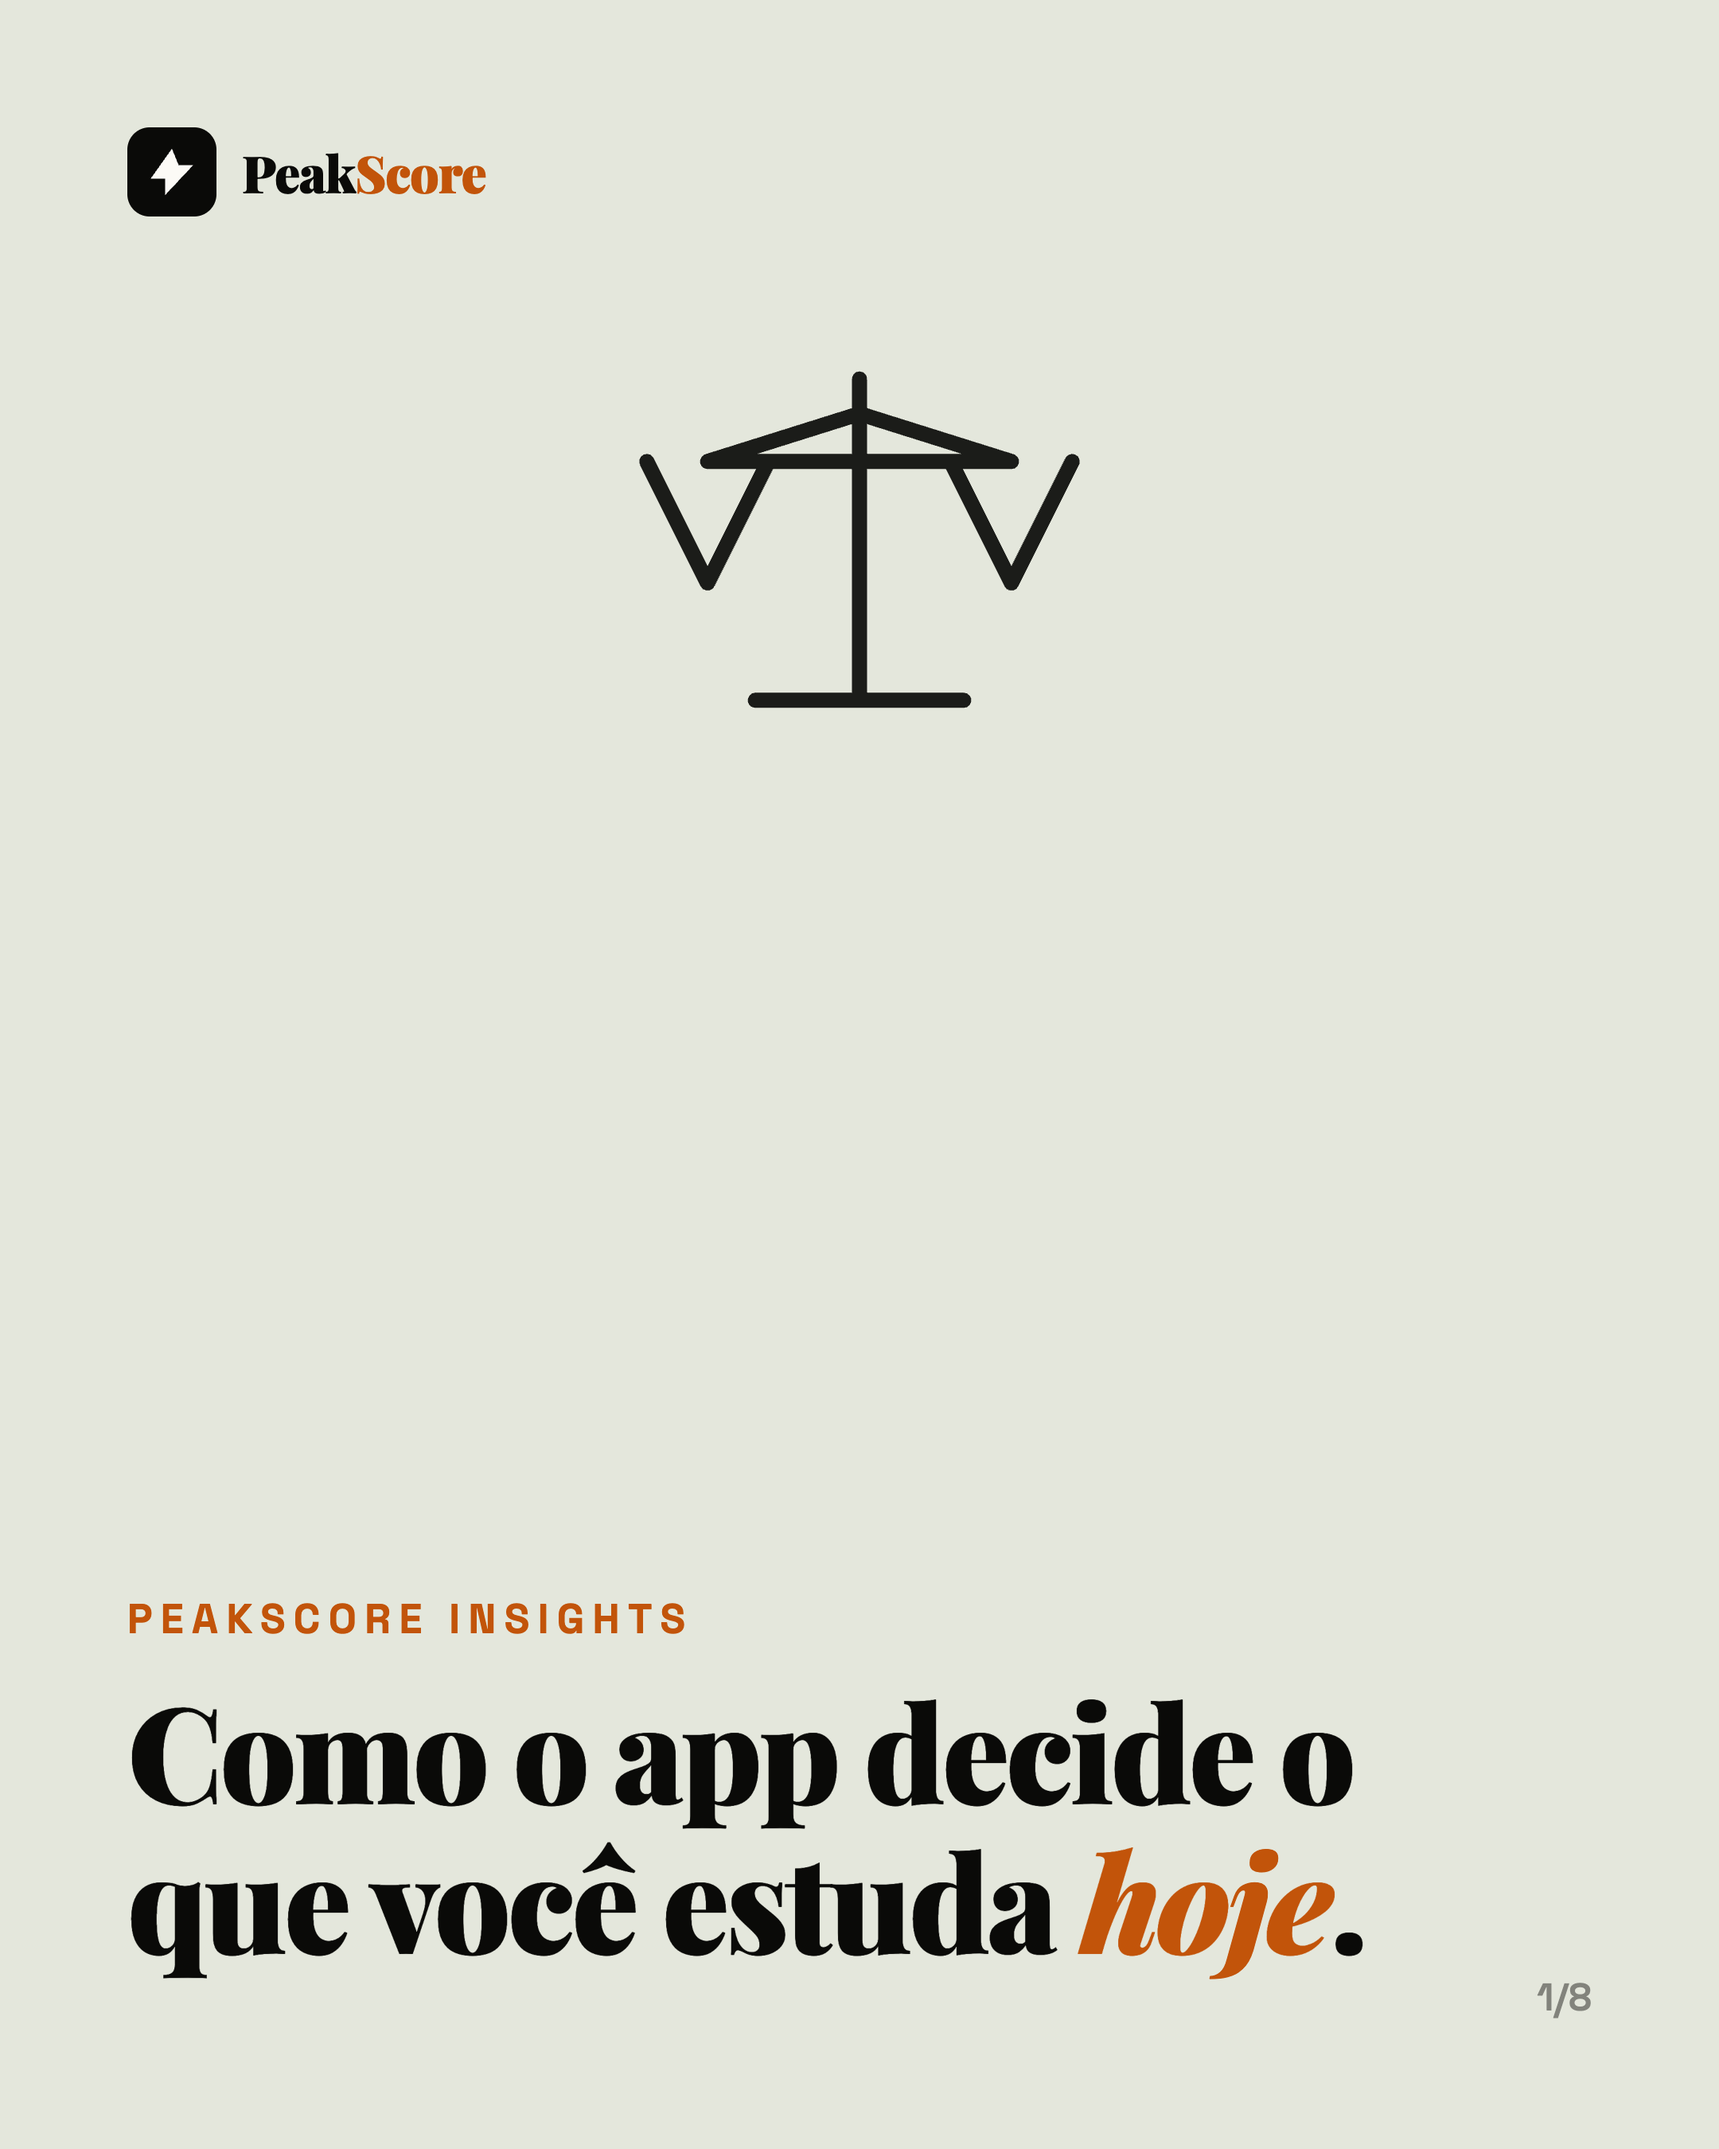
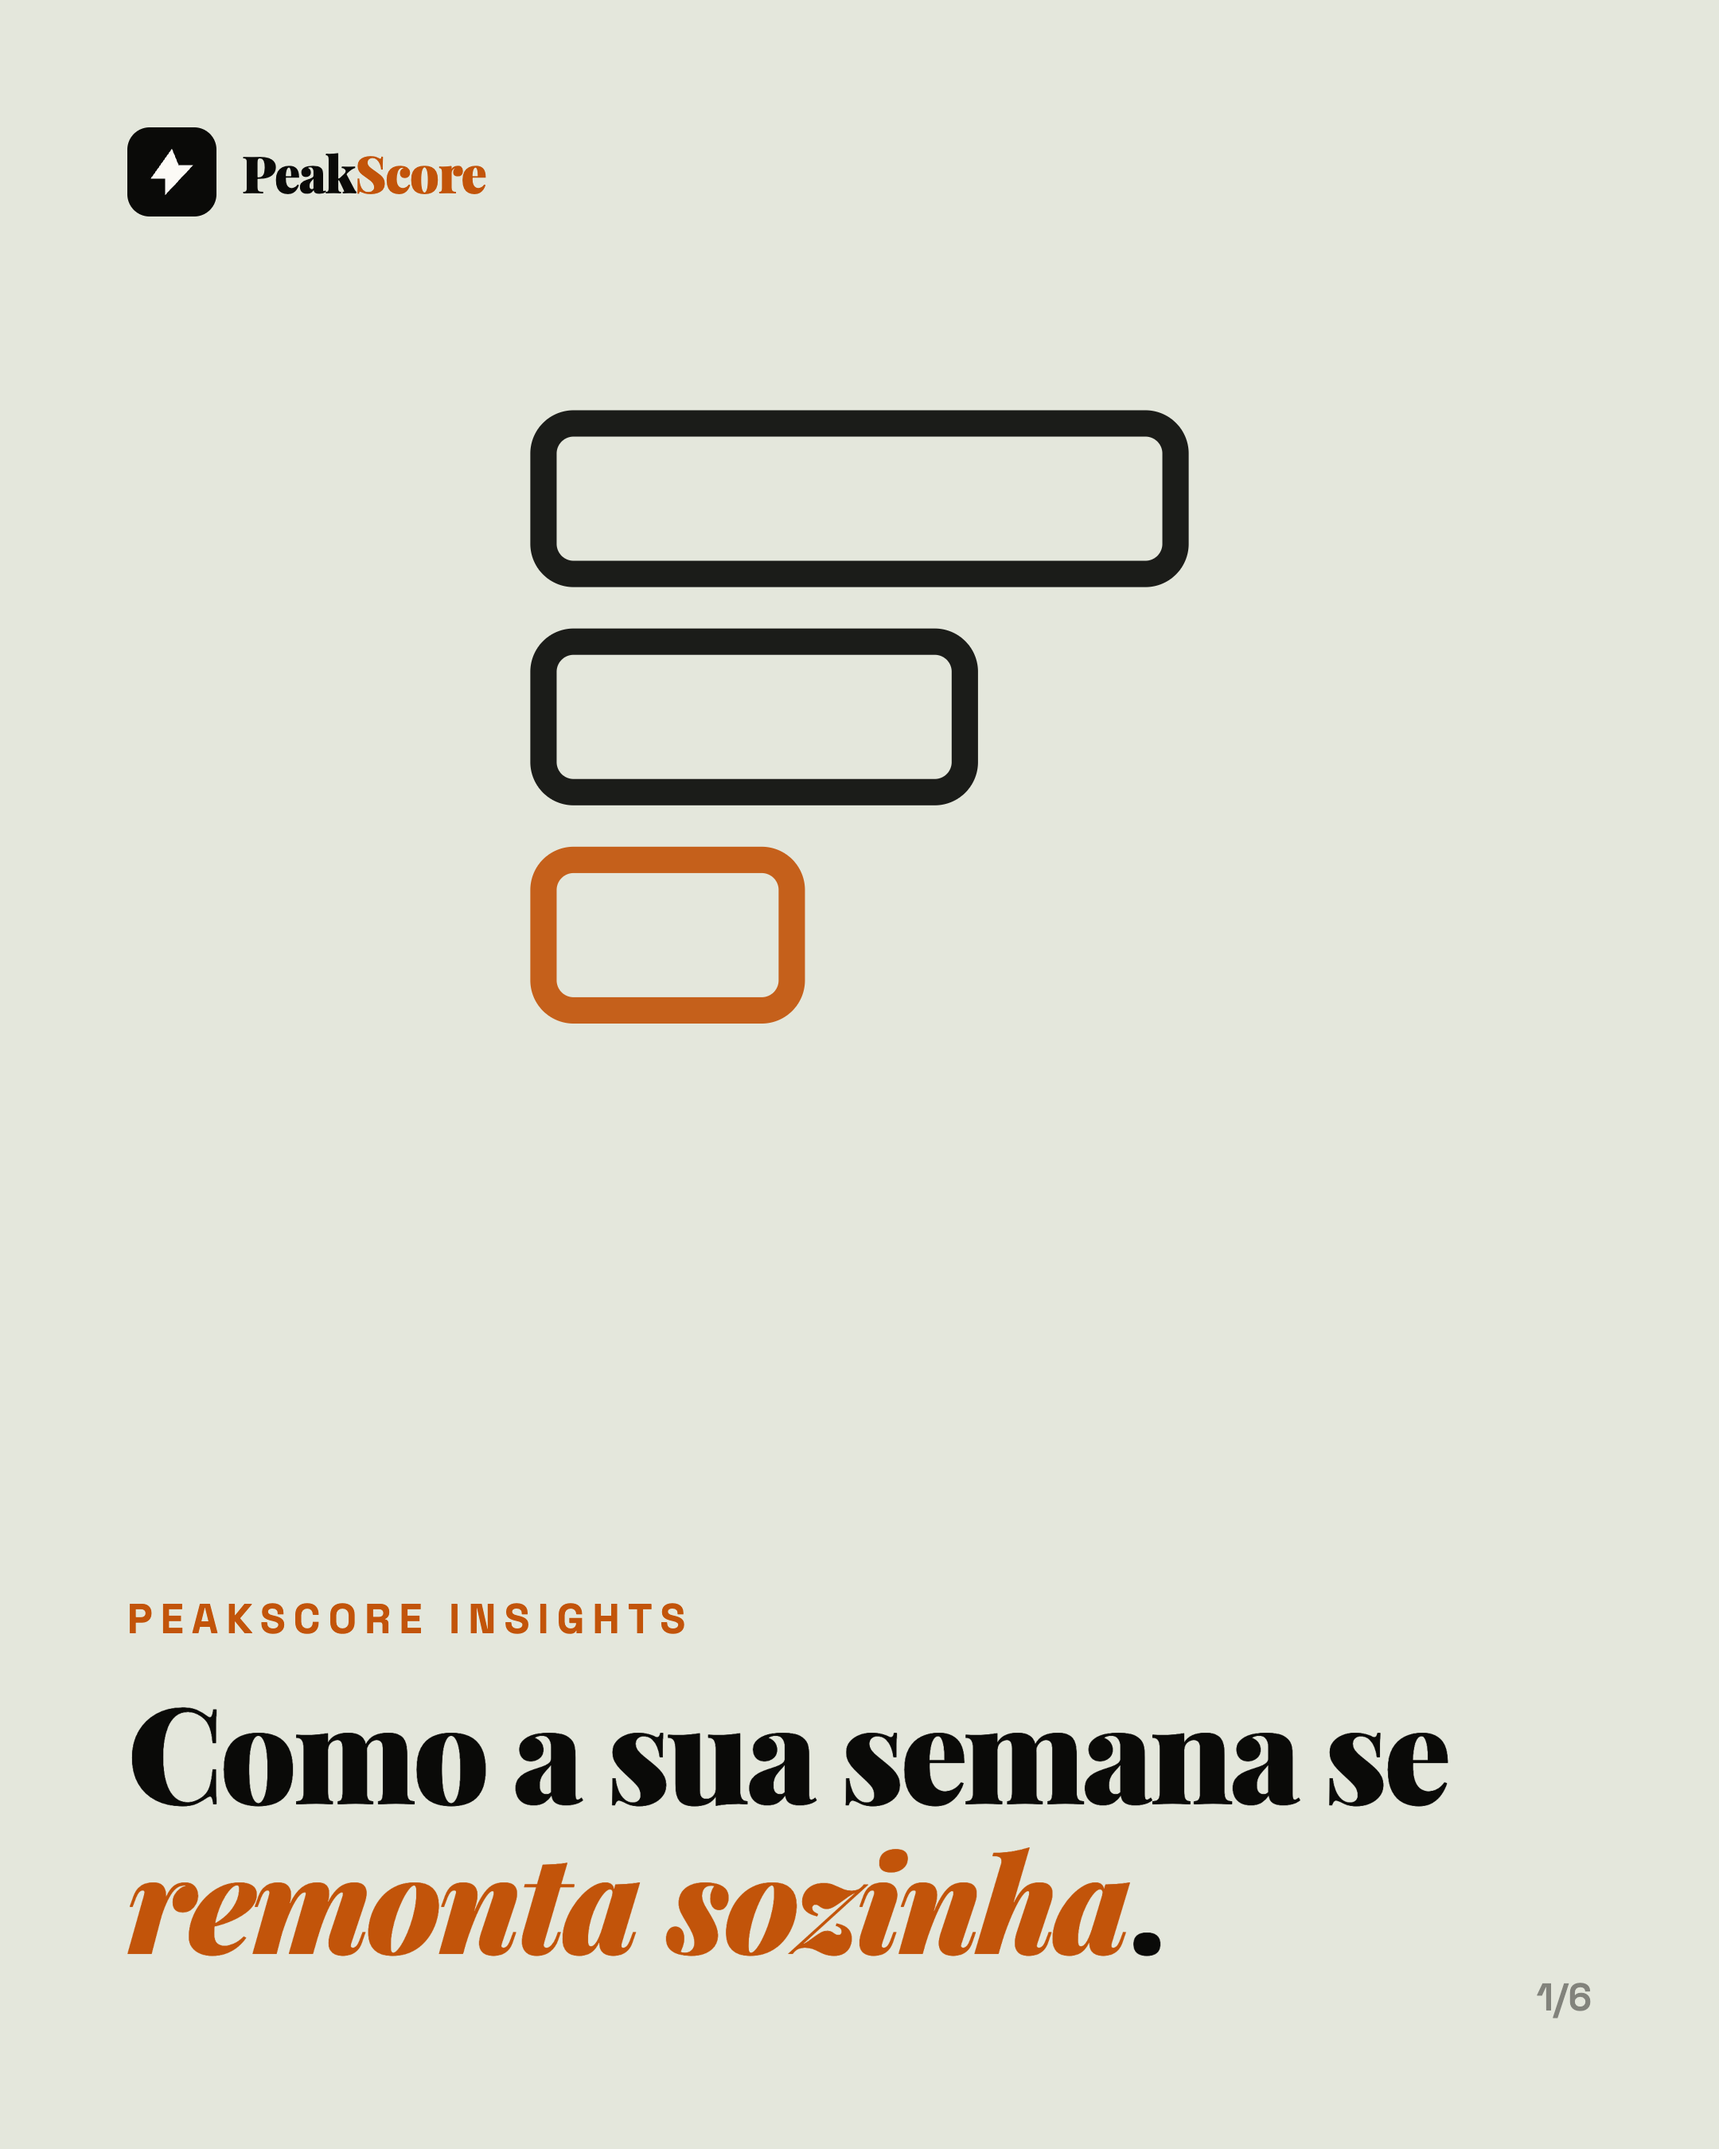
PeakScore Insights: registro claro com desenho de traco, estreia 3/9

Changed region(s): [[0.062, 0.7778, 0.8375, 0.9333], [0.3102, 0.1556, 0.7134, 0.4978]]

diff --git a/agenda-dados.js b/agenda-dados.js
@@ -156,19 +156,28 @@ Faltam 67 dias para o ENEM e 66 para o SAT de 7 de novembro.`,
         nota: 'Footage do app já capturado em português: reels/out/hoje.mp4. Falta montar com a cartela de gancho na frente. Sem narração.' },
       tarefas: ['Bastidor de quarta: vídeo de celular, sem edição, som ambiente.'] },
 
-    { d: '2026-09-03',
-      post: { reel: true, dir: 'setembro-reels-capas', n: 2, gancho: 2, clip: 'semana-montada',
-        tipo: 'Reel demo · 18s',
-        titulo: 'A semana já vem montada',
-        legenda: `Você não precisa montar cronograma. Você precisa que ele exista quando a professora adianta a prova.
+    { d: '2026-09-03', contexto: 'Estreia do formato PeakScore Insights',
+      post: { dir: 'insights-01', cards: 6, tipo: 'carrossel Insights · 6 cards',
+        titulo: 'Como a sua semana se remonta sozinha',
+        labels: ['capa','a âncora','o peso 4','as 4 fases','depois da prova','fecho'],
+        legenda: `Todo app de organização promete que "se adapta". Quase nenhum conta como.
 
-Isso aqui é a semana de verdade, no app, em português. Escola, SAT e treino na mesma grade, e ela se remonta sozinha quando algo muda.
+Aqui está o nosso, sem marketing:
 
-Sincroniza com o Google Classroom. Faltam 66 dias para o ENEM e 65 para o SAT.`,
-        cta: 'comenta <b>PLANO</b> que eu te mando o link no direct',
-        tags: '#rotinadeestudos #enem2026 #organizacao #estudos',
-        nota: 'Footage do app JÁ CAPTURADO em português: reels/out/semana-montada.mp4. É o app de verdade, não maquete.' } },
+O plano ganha uma âncora. A data em que você começou fica gravada e nunca se move, nem quando você abre o app num aparelho novo. Sem isso o seu começo seria empurrado para hoje toda vez, e o cronograma inteiro derivaria.
 
+O que você arrasta para o topo pesa mais. A ordem dos seus materiais não é enfeite: o primeiro entra no sorteio com peso 4, o segundo com peso 2, o resto com peso 1. Você prioriza arrastando.
+
+São quatro fases, e a última chama Pico: descanso, revisão e execução. É exatamente o que atleta faz na semana da competição, e é o oposto de virar a noite.
+
+E depois da prova o plano não apaga. Sessões leves seguem até o dia do resultado.
+
+Nada disso você configura. Você informa a data da prova e os dias que estuda.
+
+Faltam 66 dias para o ENEM e 65 para o SAT de 7 de novembro.`,
+        cta: 'comenta <b>COMO</b> que eu te mando o link no direct',
+        tags: '#organizacao #rotinadeestudos #enem2026 #vestibular',
+        nota: 'ESTREIA do registro Insights: campo de cor claro com desenho de traço, sem fundo laranja e sem fundo preto. Tudo que está escrito é o algoritmo de verdade, lido em dashboard.html (buildPersonalizedSchedule, o pool ponderado 4x/2x/1x, as quatro fases, _psPostTestPlan). Mostra sofisticação explicando o mecanismo, nunca dizendo que somos inovadores.' } },
     { d: '2026-09-04',
       post: { dir: 'momentos', n: 2, tipo: 'post único · foto e uma frase',
         titulo: 'A segunda-feira já está marcada',
@@ -291,19 +300,17 @@ Faltam 58 dias para o ENEM e 57 para o SAT.`,
       stories: [{ dir: 'setembro-stories', n: 6, o: 'Hippo · 58 e 57 dias', faz: 'Ritual da sexta.' }] },
 
     { d: '2026-09-12', contexto: 'Hoje é dia de SAT (12/9)',
-      post: { dir: 'sabado', n: 2, tipo: 'post único · sábado é o dia da piada',
-        titulo: 'Se você marcou tudo, você não marcou nada',
-        legenda: `Se você marcou tudo, você não marcou nada.
+      post: { reel: true, dir: 'setembro-reels-capas', n: 2, gancho: 2, clip: 'semana-montada',
+        tipo: 'Reel demo · 18s',
+        titulo: 'A semana já vem montada',
+        legenda: `Você não precisa montar cronograma. Você precisa que ele exista quando a professora adianta a prova.
 
-A página inteira amarela não é destaque, é decoração. Marca-texto serve pra dizer "isso aqui é diferente do resto", e quando é tudo, não é nada.
+Isso aqui é a semana de verdade, no app, em português. Escola, SAT e treino na mesma grade, e ela se remonta sozinha quando algo muda.
 
-A regra que funciona é chata: no máximo uma linha por parágrafo. Se não couber, o parágrafo é que precisa ser relido.
-
-Faltam 57 dias para o ENEM e 56 para o SAT.`,
-        cta: 'marca quem pinta a apostila inteira',
-        tags: '#rotinadeestudos #comoestudar #enem2026 #estudos',
-        nota: 'Pexels 1629212, Min An. Véu no forte: a foto é cheia de detalhe e a serifada branca sumiria.' } },
-
+Sincroniza com o Google Classroom. Faltam 57 dias para o ENEM e 56 para o SAT de 7 de novembro.`,
+        cta: 'comenta <b>PLANO</b> que eu te mando o link no direct',
+        tags: '#rotinadeestudos #enem2026 #organizacao #estudos',
+        nota: 'Veio de 3/9, que virou a estreia do Insights. Footage do app JÁ CAPTURADO em português: reels/out/semana-montada.mp4. Story de manhã: boa prova para quem faz SAT hoje.' } },
     { d: '2026-09-13',
       post: { dir: 'setembro-unicos', n: 3, tipo: 'post único · foto silenciosa',
         titulo: 'O domingo decide a semana',
